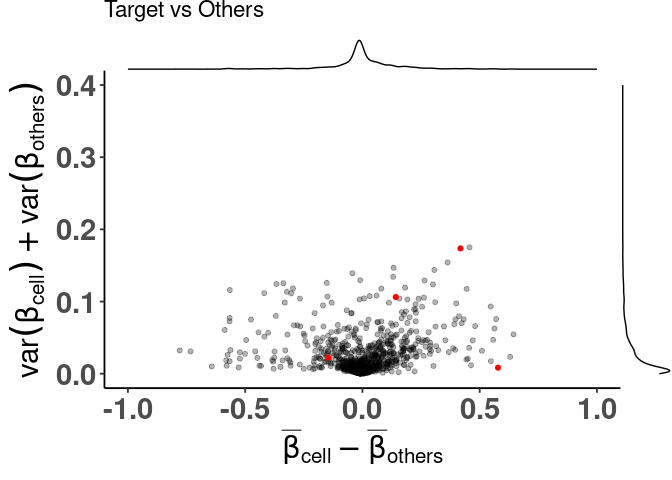
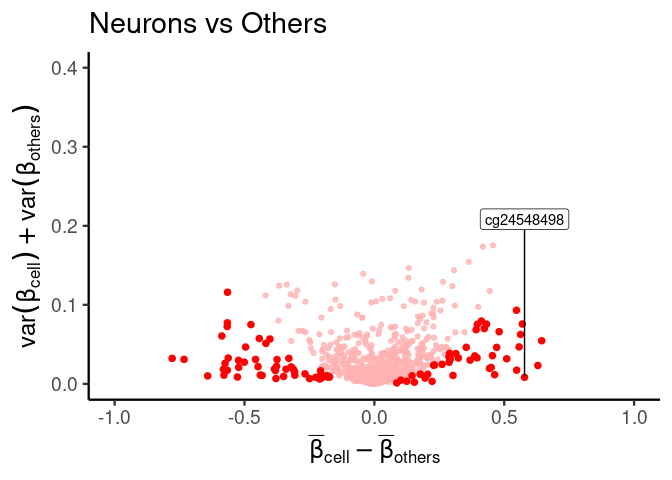
update README

diff --git a/README.md b/README.md
@@ -14,16 +14,11 @@ CimpleG, an R package to find (small) CpG signatures.
 ## Installation
 
 ``` r
-# Install directly from github:
-devtools::install_github("costalab/CimpleG")
+# Install from CRAN:
+install.packages("CimpleG")
 
-# Alternatively, downloading from our release page and installing it from a local source:
-#  - ie navigating through your system
-install.packages(file.choose(), repos = NULL, type = "source")
-#  - ie given a path to a local source
-install.packages("~/Downloads/CimpleG_1.0.0.XXXX.tar.gz", repos = NULL, type = "source")
-# or
-devtools::install_local("~/Downloads/CimpleG_1.0.0.XXXX.tar.gz")
+# Install dev version from github:
+devtools::install_github("costalab/CimpleG")
 ```
 
 ## Getting started
@@ -101,7 +96,6 @@ signature_annotation
 ### Plot generated signatures
 
 ``` r
-
 # adjust target names to match signature names
 
 # check generated signatures
@@ -119,7 +113,21 @@ print(plt$plot)
 
 ## Difference of means vs Sum of variances (dmsv) plots
 
+We have two different functions to produce these plots, one with a
+simpler interface (and arguably cleaner look) than the other. I might
+unify these interfaces in the future.
+
 ### basic plot
+
+``` r
+plt <- dmsv_plot(
+  dat = train_data,
+  target_vector = train_targets$neurons == 1
+)
+print(plt)
+```
+
+![](man/figures/README-dmsv_plot1-1.png)<!-- -->
 
 ``` r
 plt <- diffmeans_sumvariance_plot(
@@ -129,7 +137,7 @@ plt <- diffmeans_sumvariance_plot(
 print(plt)
 ```
 
-![](man/figures/README-dmsv_plots-1.png)<!-- -->
+![](man/figures/README-dmsv_plot2-1.png)<!-- -->
 
 ### adding color, highlighting selected features
 
@@ -142,30 +150,55 @@ df_dmeansvar <- compute_diffmeans_sumvar(
 parab_param <- .7
 
 df_dmeansvar$is_selected <- select_features(
-    x = df_dmeansvar$diff_means,
-    y = df_dmeansvar$sum_variance,
-    a = parab_param
+  x = df_dmeansvar$diff_means,
+  y = df_dmeansvar$sum_variance,
+  a = parab_param
 )
+```
 
+With the simpler interface
+
+``` r
+plt <- dmsv_plot(
+  dat = df_dmeansvar,
+  label_var1 = "Neurons",
+  highlight_var = "is_selected",
+  display_var = "is_selected",
+  point_color = "purple"
+)
+print(plt)
+```
+
+![](man/figures/README-hl_feats_plt2-1.png)<!-- -->
+
+With the more complex interface
+
+``` r
 plt <- diffmeans_sumvariance_plot(
   data = df_dmeansvar,
   label_var1 = "Neurons",
   color_all_points = "purple",
-  threshold_func = function(x, a) (a * x) ^ 2,
+  threshold_func = function(x, a) (a * x)^2,
   is_feature_selected_col = "is_selected",
   func_factor = parab_param
 )
 print(plt)
 ```
 
-![](man/figures/README-hl_feats_plt-1.png)<!-- -->
+![](man/figures/README-hl_feats_plt3-1.png)<!-- -->
 
 ### labeling specific features
 
 ``` r
-plt <- diffmeans_sumvariance_plot(
-  data = df_dmeansvar,
-  feats_to_highlight = cimpleg_result$signatures
+# labeling best signature found by CimpleG
+df_dmeansvar$best_neuron_sig <- (df_dmeansvar$id %in% cimpleg_result$signatures["neurons"])
+
+plt <- dmsv_plot(
+  dat = df_dmeansvar,
+  label_var1 = "Neurons",
+  highlight_var = "is_selected",
+  display_var = "best_neuron_sig",
+  point_color = "red"
 )
 print(plt)
 ```
@@ -193,16 +226,19 @@ print(plt$plot)
 
 ![](man/figures/README-deconv_bar_plt-1.png)<!-- -->
 
-### this example is a little more advanced
+## Benchmarking example
+
+### This example is a little more advanced
 
 #### first lets create additional deconvolution results so that we can compare them
 
 In this example, we’ll create two additional models made with CimpleG.
 One using only hypermethylated signatures, and the other using 3 CpGs
-per signature instead of just one.
+per signature instead of just one. Then we will benchmark them against
+eachother. This is similar to the approach that we use in the paper
+except there we use real data.
 
 ``` r
-
 set.seed(42)
 cimpleg_hyper <- CimpleG(
   train_data = train_data,
@@ -218,10 +254,10 @@ cimpleg_hyper <- CimpleG(
     "fibroblasts"
   )
 )
-#> Training for target 'neurons' with 'CimpleG' has finished.: 0.265 sec elapsed
-#> Training for target 'glia' with 'CimpleG' has finished.: 0.263 sec elapsed
-#> Training for target 'blood_cells' with 'CimpleG' has finished.: 0.245 sec elapsed
-#> Training for target 'fibroblasts' with 'CimpleG' has finished.: 0.236 sec elapsed
+#> Training for target 'neurons' with 'CimpleG' has finished.: 0.259 sec elapsed
+#> Training for target 'glia' with 'CimpleG' has finished.: 0.256 sec elapsed
+#> Training for target 'blood_cells' with 'CimpleG' has finished.: 0.281 sec elapsed
+#> Training for target 'fibroblasts' with 'CimpleG' has finished.: 0.265 sec elapsed
 
 deconv_hyper <- run_deconvolution(
   cpg_obj = cimpleg_hyper,
@@ -244,10 +280,10 @@ cimpleg_3sigs <- CimpleG(
     "fibroblasts"
   )
 )
-#> Training for target 'neurons' with 'CimpleG' has finished.: 0.352 sec elapsed
-#> Training for target 'glia' with 'CimpleG' has finished.: 0.292 sec elapsed
-#> Training for target 'blood_cells' with 'CimpleG' has finished.: 0.298 sec elapsed
-#> Training for target 'fibroblasts' with 'CimpleG' has finished.: 0.34 sec elapsed
+#> Training for target 'neurons' with 'CimpleG' has finished.: 0.31 sec elapsed
+#> Training for target 'glia' with 'CimpleG' has finished.: 0.301 sec elapsed
+#> Training for target 'blood_cells' with 'CimpleG' has finished.: 0.352 sec elapsed
+#> Training for target 'fibroblasts' with 'CimpleG' has finished.: 0.31 sec elapsed
 
 deconv_3sigs <- run_deconvolution(
   cpg_obj = cimpleg_3sigs,
@@ -255,7 +291,7 @@ deconv_3sigs <- run_deconvolution(
 )
 ```
 
-#### let’s also create some fake true values just so that we can compare all the results
+#### let’s also create some simulated true values just so that we can compare all the results
 
 #### remember this is just an example, the results themselves are meaningless\!
 
@@ -265,13 +301,17 @@ deconv_hyper$prop_hyper <- deconv_hyper$proportion
 deconv_result$prop_cimpleg <- deconv_result$proportion
 
 dummy_deconvolution_data <-
-  deconv_result |> 
-  dplyr::mutate(true_vals = proportion + runif(nrow(deconv_result), min=-0.1,max=0.1)) |>
-  dplyr::select(cell_type,sample_id,prop_cimpleg,true_vals) |>
-  dplyr::left_join(deconv_hyper |> dplyr::select(-proportion), by=c("sample_id","cell_type")) |>
-  dplyr::left_join(deconv_3sigs |> dplyr::select(-proportion), by=c("sample_id","cell_type")) |>
-  dplyr::mutate_if(is.numeric, function(x){ifelse(x<0,0,x)}) |>
-  dplyr::mutate_if(is.numeric, function(x){ifelse(x>1,1,x)}) |> 
+  deconv_result |>
+  dplyr::mutate(true_vals = proportion + runif(nrow(deconv_result), min = -0.1, max = 0.1)) |>
+  dplyr::select(cell_type, sample_id, prop_cimpleg, true_vals) |>
+  dplyr::left_join(deconv_hyper |> dplyr::select(-proportion), by = c("sample_id", "cell_type")) |>
+  dplyr::left_join(deconv_3sigs |> dplyr::select(-proportion), by = c("sample_id", "cell_type")) |>
+  dplyr::mutate_if(is.numeric, function(x) {
+    ifelse(x < 0, 0, x)
+  }) |>
+  dplyr::mutate_if(is.numeric, function(x) {
+    ifelse(x > 1, 1, x)
+  }) |>
   tibble::as_tibble()
 ```
 
@@ -283,11 +323,11 @@ dummy_deconvolution_data <-
 scatter_plts <- CimpleG:::deconv_pred_obs_plot(
   deconv_df = dummy_deconvolution_data,
   true_values_col = "true_vals",
-  predicted_cols = c("prop_cimpleg","prop_hyper","prop_3sigs"),
+  predicted_cols = c("prop_cimpleg", "prop_hyper", "prop_3sigs"),
   sample_id_col = "sample_id",
-  group_col= "cell_type"
+  group_col = "cell_type"
 )
-scatter_panel <- scatter_plts |> patchwork::wrap_plots(ncol=1)
+scatter_panel <- scatter_plts |> patchwork::wrap_plots(ncol = 1)
 
 print(scatter_panel)
 ```
@@ -300,12 +340,12 @@ print(scatter_panel)
 rank_plts <- CimpleG:::deconv_ranking_plot(
   deconv_df = dummy_deconvolution_data,
   true_values_col = "true_vals",
-  predicted_cols = c("prop_cimpleg","prop_hyper","prop_3sigs"),
+  predicted_cols = c("prop_cimpleg", "prop_hyper", "prop_3sigs"),
   sample_id_col = "sample_id",
-  group_col= "cell_type",
+  group_col = "cell_type",
   metrics = "rmse"
 )
-rank_panel <- list(rank_plts$perf_boxplt[[1]],rank_plts$nemenyi_plt[[1]]) |> patchwork::wrap_plots()
+rank_panel <- list(rank_plts$perf_boxplt[[1]], rank_plts$nemenyi_plt[[1]]) |> patchwork::wrap_plots()
 
 print(rank_panel)
 ```
